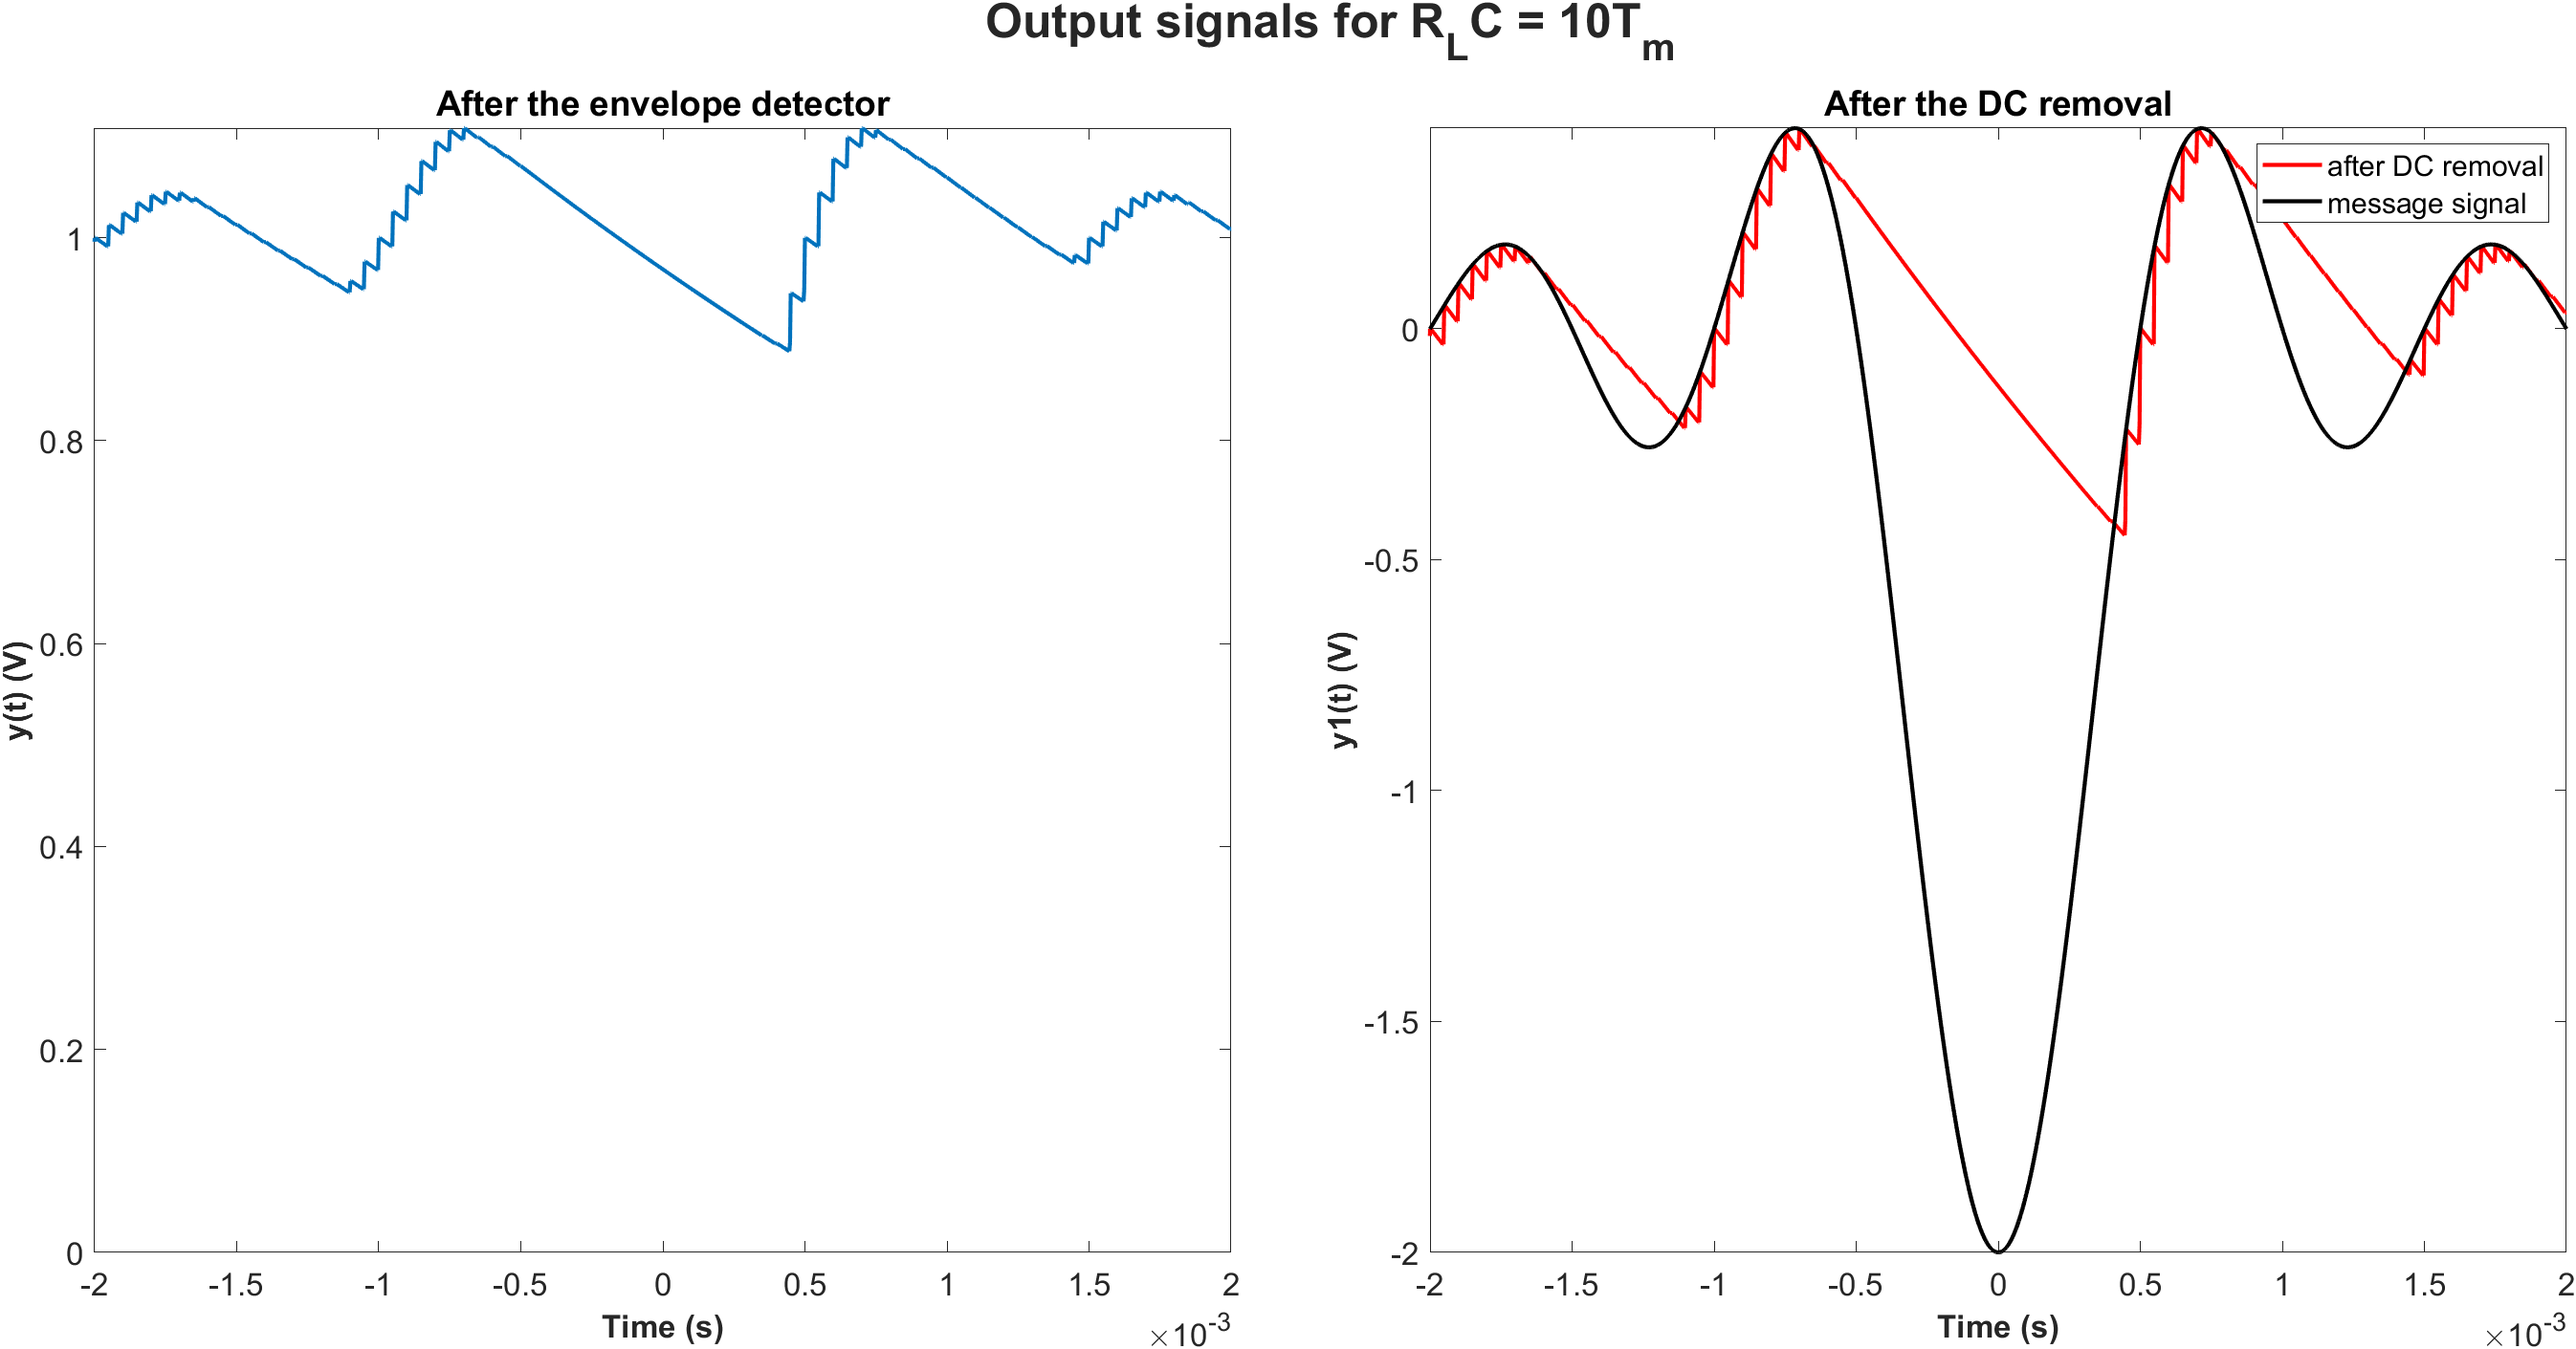
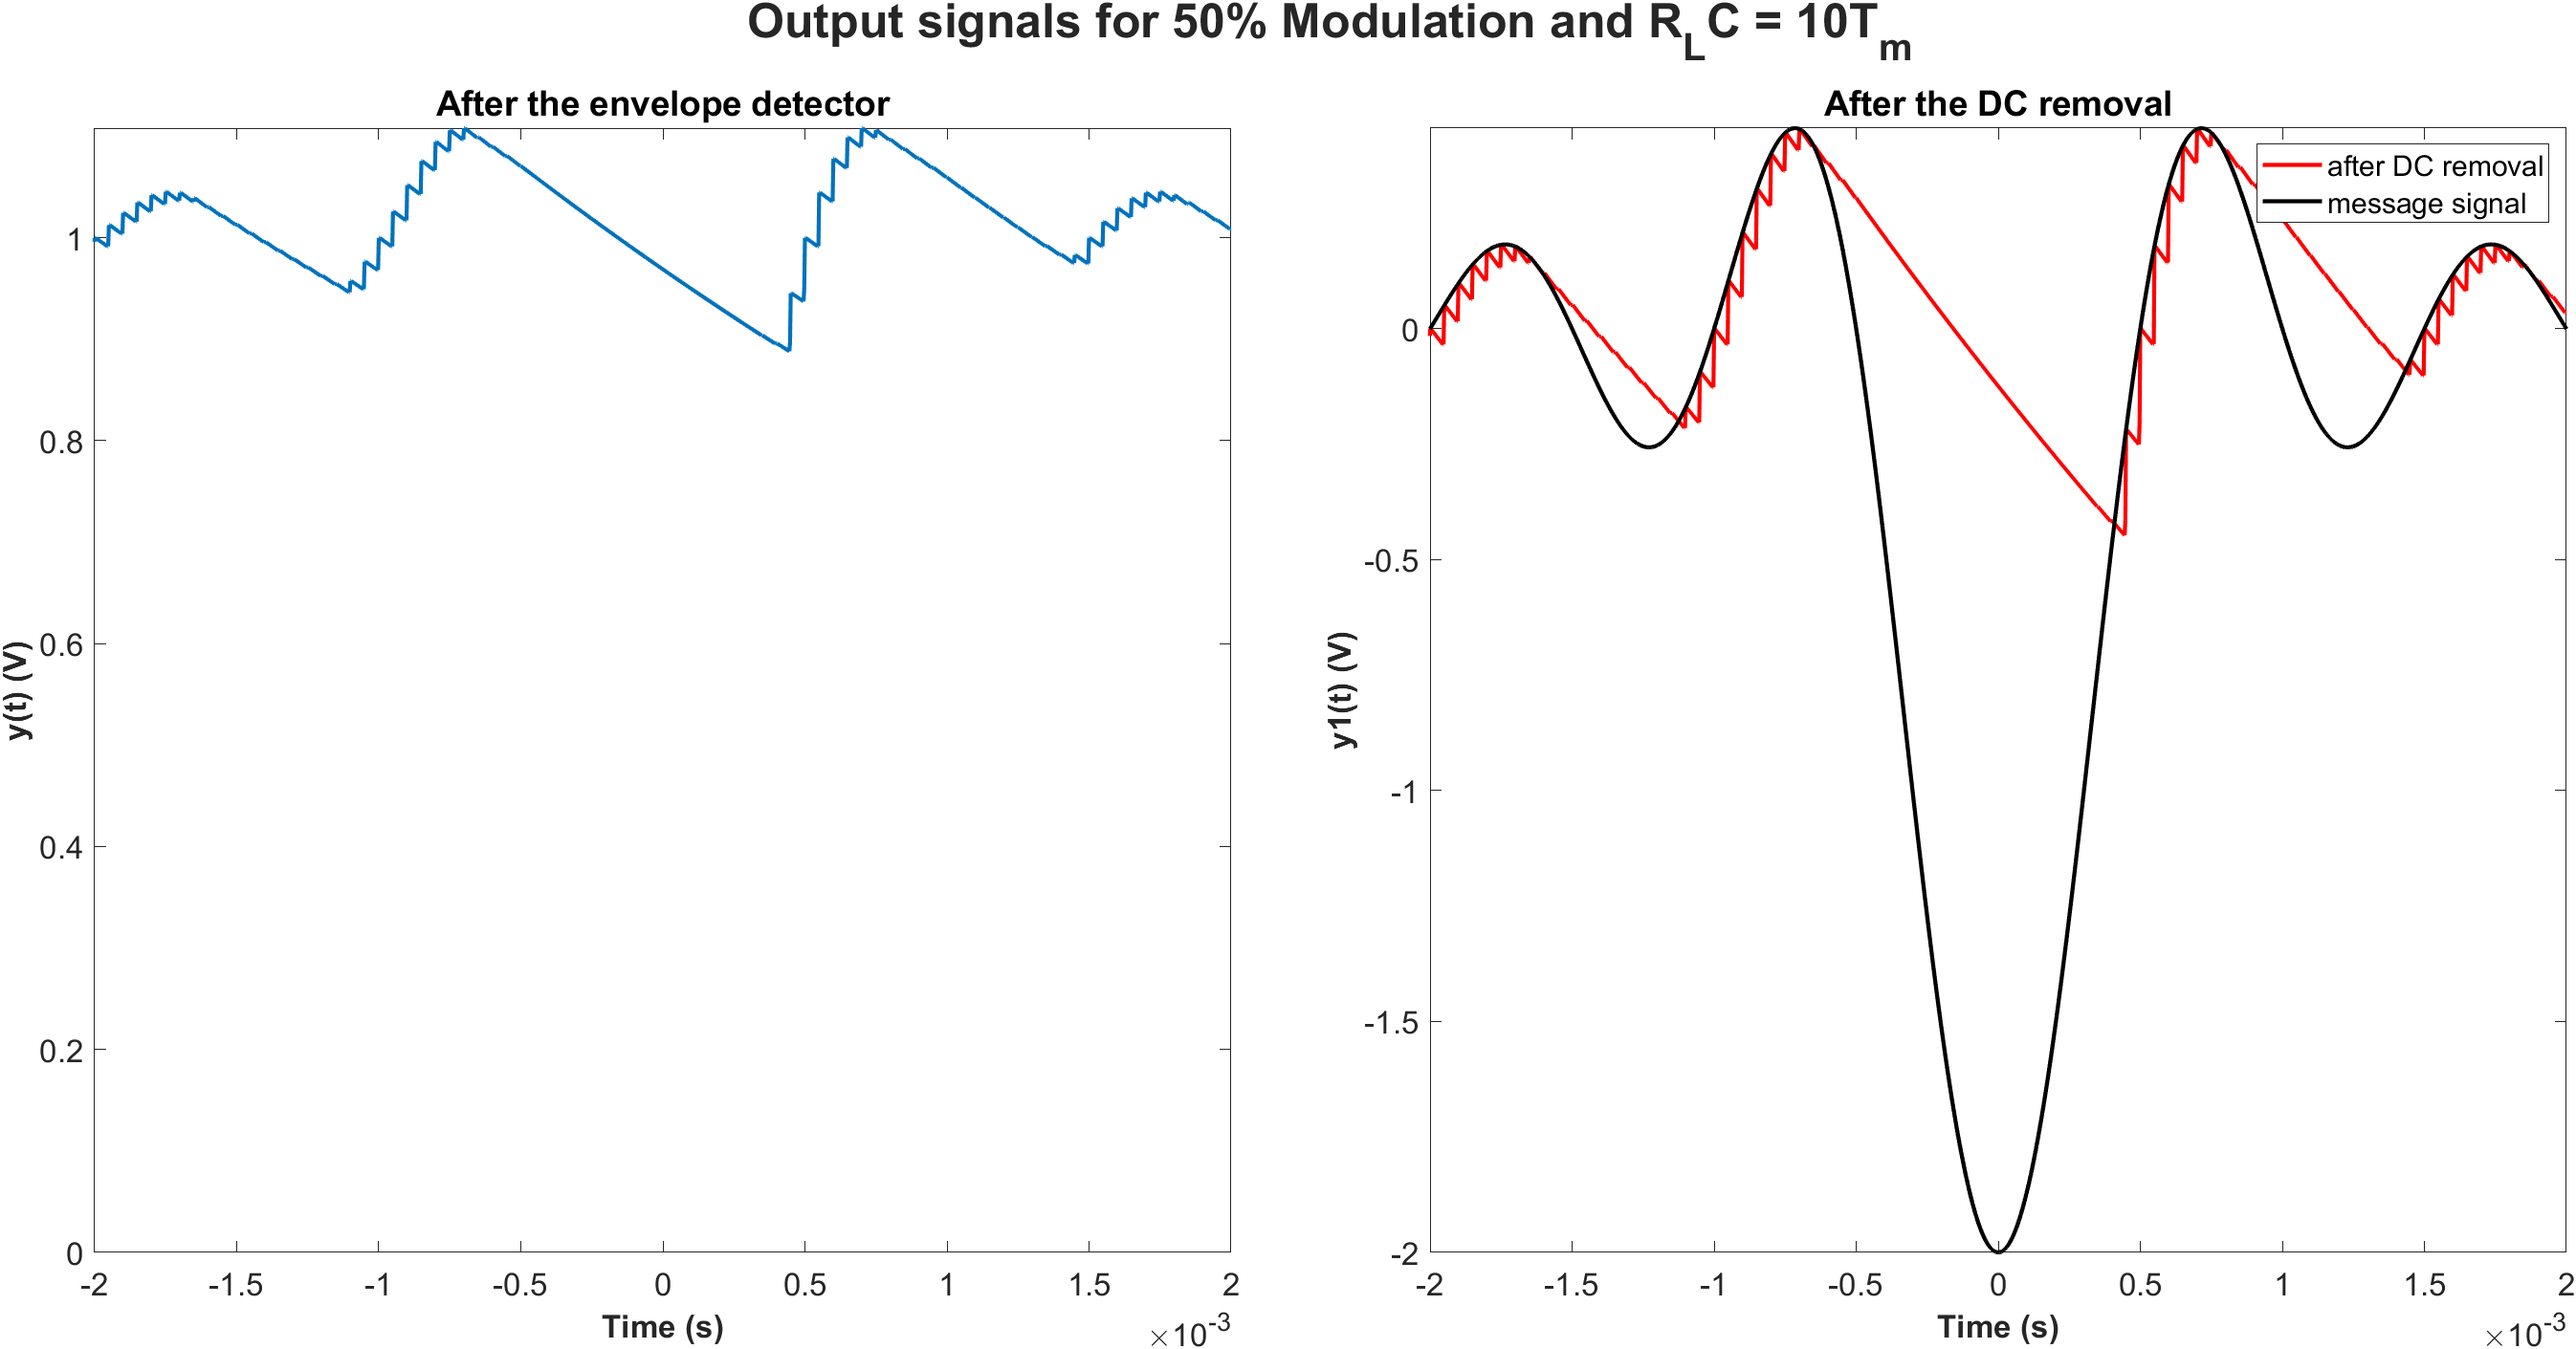
done all questions

Changed region(s): [[0.2807, 0.0, 0.7486, 0.0624]]

diff --git a/Lab 2/MATLAB/lab2.m b/Lab 2/MATLAB/lab2.m
@@ -71,43 +71,11 @@ ka=0.5/maxmt;
 %AM signal
 st = (1+ka*mt).*ct;
 
-% Plotting the modulated signal
-modulated_signal = figure(2);
-tlayout = tiledlayout(2,1);
+% Function for plotting modulated signal in time and frequency domain can
+% be found at the bottom of the script
+modulated_fig(st, mt, ka, tt, freq, 2, 0.5, "q2");
 
-% time domain
-nexttile;
-time_dom = plot(tt, st, 'b', 'LineWidth', 2);
-% plotting envelope
-hold on
-plot(tt, 0.25*mt+1,'Color','r','LineStyle', '--','LineWidth',2);
-plot(tt, -0.25*mt-1,'Color','r','LineStyle', '--','LineWidth',2);
-hold off
-legend('Modulated Signal', 'Envelope');
-tim_dom_ax = gca;
-set(tim_dom_ax,'FontSize',16);
-xlabel('Time (s)','FontWeight','bold','Fontsize',16);
-ylabel('Modulated Signal s(t) (V)','FontWeight','bold','Fontsize',16);
-title('Modulated Signal in Time Domain');
-axis([-2e-3 2e-3 min(st) max(st)]);
-
-% frequency domain
-Sf1 = fft(fftshift(st));
-Sf = fftshift(Sf1);
-
-nexttile;
-freq_dom = plot(freq, abs(Sf), 'LineWidth', 2);
-freq_dom_ax = gca;
-set(freq_dom_ax,'FontSize',16);
-xlabel('Frequency (Hz)','FontWeight','bold','Fontsize',16);
-ylabel('|M(f)|','FontWeight','bold','Fontsize',16);
-title('Magnitude Spectrum of the Modulated Signal');
-axis([-25e3 25e3 0 max(abs(Sf))]);
-
-modulated_signal.WindowState = 'maximized';
-exportgraphics(message_signal,'../Report/Figures/q2.png');
-
-%% Demodulation
+%% Demodulation (Q2i, Q2ii, Q2iii)
 
 % Envelope detector function can be found at bottom of script
 % Function for plotting output of envelope detector and ouput of DC removal
@@ -116,17 +84,31 @@ exportgraphics(message_signal,'../Report/Figures/q2.png');
 % Plotting output of envelope detector and output of DC removal for time constant RC = 1/fc
 RC = 1/fc;
 yt = envelope_detector(st, RC, tt, N);
-output_fig(yt, mt, ka, tt, 3, "1/f_c", "q2i", 0);
+output_fig(yt, mt, ka, tt, 3, 0.5, "1/f_c", "q2i", 0);
 
 % Plotting output of envelope detector and output of DC removal for time constant RC = 10*Tm
 RC = 10*Tm;
 yt = envelope_detector(st, RC, tt, N);
-output_fig(yt, mt, ka, tt, 4, "10T_m", "q2ii", 0);
+output_fig(yt, mt, ka, tt, 4, 0.5, "10T_m", "q2ii", 0);
 
 % Plotting output for 2iii after exploration of different RC values, the output is passed through a LPF
 RC = 1.1*Tm;
 yt = envelope_detector(st, RC, tt, N);
-output_fig(yt, mt, ka, tt, 5, "1.1T_m", "q2iii", 1);
+output_fig(yt, mt, ka, tt, 5, 0.5, "1.1T_m", "q2iii", 1);
+
+%% Increase modulation to above 100% (Q3)
+%For 200% modulation
+ka=2/maxmt;
+
+%AM signal
+st = (1+ka*mt).*ct;
+
+modulated_fig(st, mt, ka, tt, freq, 6, 2, "q3_mod");
+
+RC = 0.5*(Tm + (1/fc));
+yt = envelope_detector(st, RC, tt, N);
+output_fig(yt, mt, ka, tt, 7, 2, "0.5(T_m + 1/f_c)", "q3_demod", 1);
+
 
 % figure(1)
 % Hp1 = plot(tt,ct);
@@ -139,6 +121,47 @@ output_fig(yt, mt, ka, tt, 5, "1.1T_m", "q2iii", 1);
 % set(Hx,'FontWeight','bold','Fontsize',16)
 % title('Carrier : Time domain');
 % axis([-1e-3 1e-3 -1.1 1.1])
+
+function modulated_fig(signal, original, ka, time_vector, freq_vector, fig_num, percent_modulation, file_name)
+    % Plotting the modulated signal
+    fig = figure(fig_num);
+    tlayout = tiledlayout(2,1);
+
+    % time domain
+    nexttile;
+    time_dom = plot(time_vector, signal, 'b', 'LineWidth', 2);
+    % plotting envelope
+    hold on
+    plot(time_vector, ka*original+1,'Color','r','LineStyle', '--','LineWidth',2);
+    plot(time_vector, -ka*original-1,'Color','r','LineStyle', '--','LineWidth',2);
+    hold off
+    legend('Modulated Signal', 'Envelope');
+    tim_dom_ax = gca;
+    set(tim_dom_ax,'FontSize',16);
+    xlabel('Time (s)','FontWeight','bold','Fontsize',16);
+    ylabel('Modulated Signal s(t) (V)','FontWeight','bold','Fontsize',16);
+    title_name = "Modulated Signal in Time Domain (" + percent_modulation*100 + "% Modulation)";
+    title(title_name);
+    axis([-2e-3 2e-3 min(signal) max(signal)]);
+
+    % frequency domain
+    Sf1 = fft(fftshift(signal));
+    Sf = fftshift(Sf1);
+
+    nexttile;
+    freq_dom = plot(freq_vector, abs(Sf), 'LineWidth', 2);
+    freq_dom_ax = gca;
+    set(freq_dom_ax,'FontSize',16);
+    xlabel('Frequency (Hz)','FontWeight','bold','Fontsize',16);
+    ylabel('|M(f)|','FontWeight','bold','Fontsize',16);
+    title_name = "Magnitude Spectrum of the Modulated Signal (" + percent_modulation*100 + "% Modulation)";
+    title(title_name);
+    axis([-25e3 25e3 0 max(abs(Sf))]);
+
+    fig.WindowState = 'maximized';
+    export_dest = "../Report/Figures/" + file_name + ".png";
+    exportgraphics(fig, export_dest);
+end
 
 function yt = envelope_detector(signal, time_const, time_vector, N)
     tole = 0.1;
@@ -165,7 +188,7 @@ function yt = envelope_detector(signal, time_const, time_vector, N)
     yt(1)=yt(2);
 end
 
-function output_fig(signal, original, ka, time_vector, fig_num, RC_name, file_name, lpf) % lpf = 0 for no lpf, 1 for lpf
+function output_fig(signal, original, ka, time_vector, fig_num, percent_modulation, RC_name, file_name, lpf) % lpf = 0 for no lpf, 1 for lpf
     global sampling_rate;
 	global fm;
 
@@ -176,7 +199,7 @@ function output_fig(signal, original, ka, time_vector, fig_num, RC_name, file_na
         case 1
             tlayout = tiledlayout(1,3);
     end
-    title_name = "Output signals for R_LC = " + RC_name;
+    title_name = "Output signals for " + percent_modulation*100 + "% Modulation and R_LC = " + RC_name;
     title(tlayout, title_name,'FontWeight','bold','Fontsize',24);
 
     % output of envelope detector
